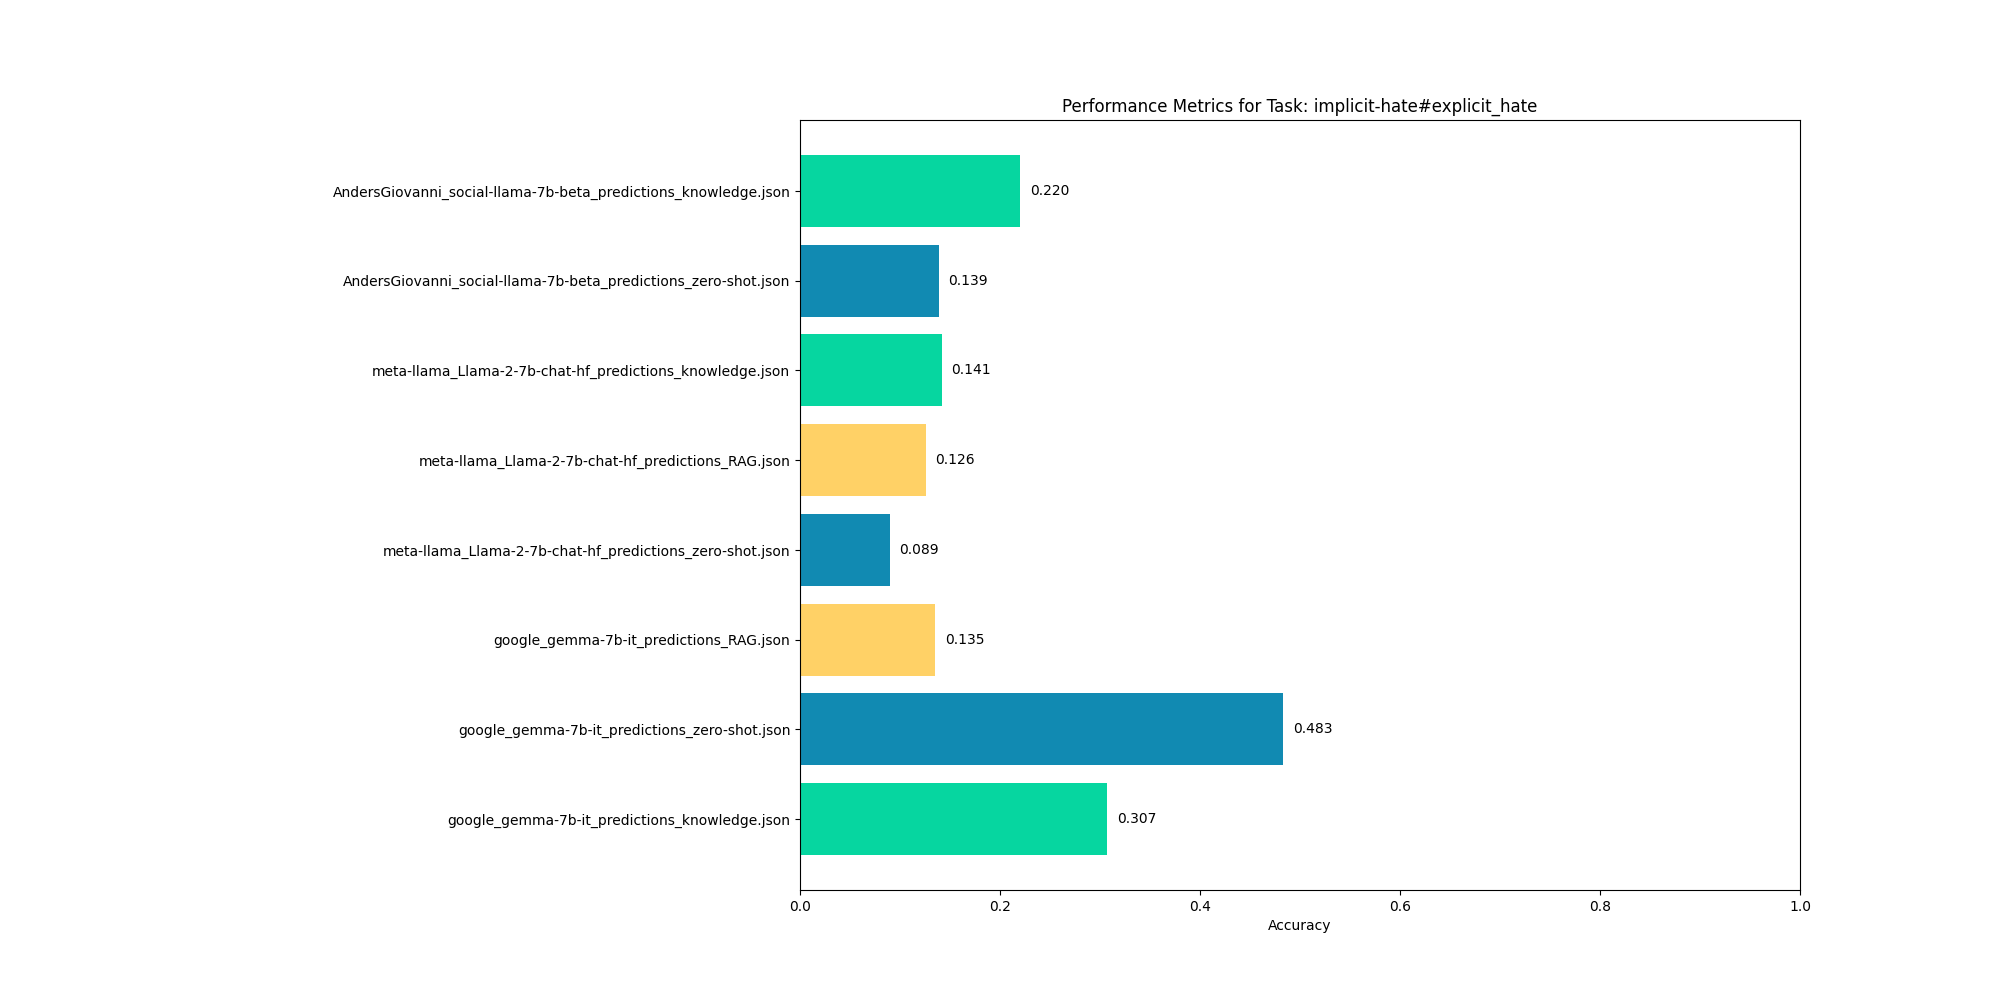
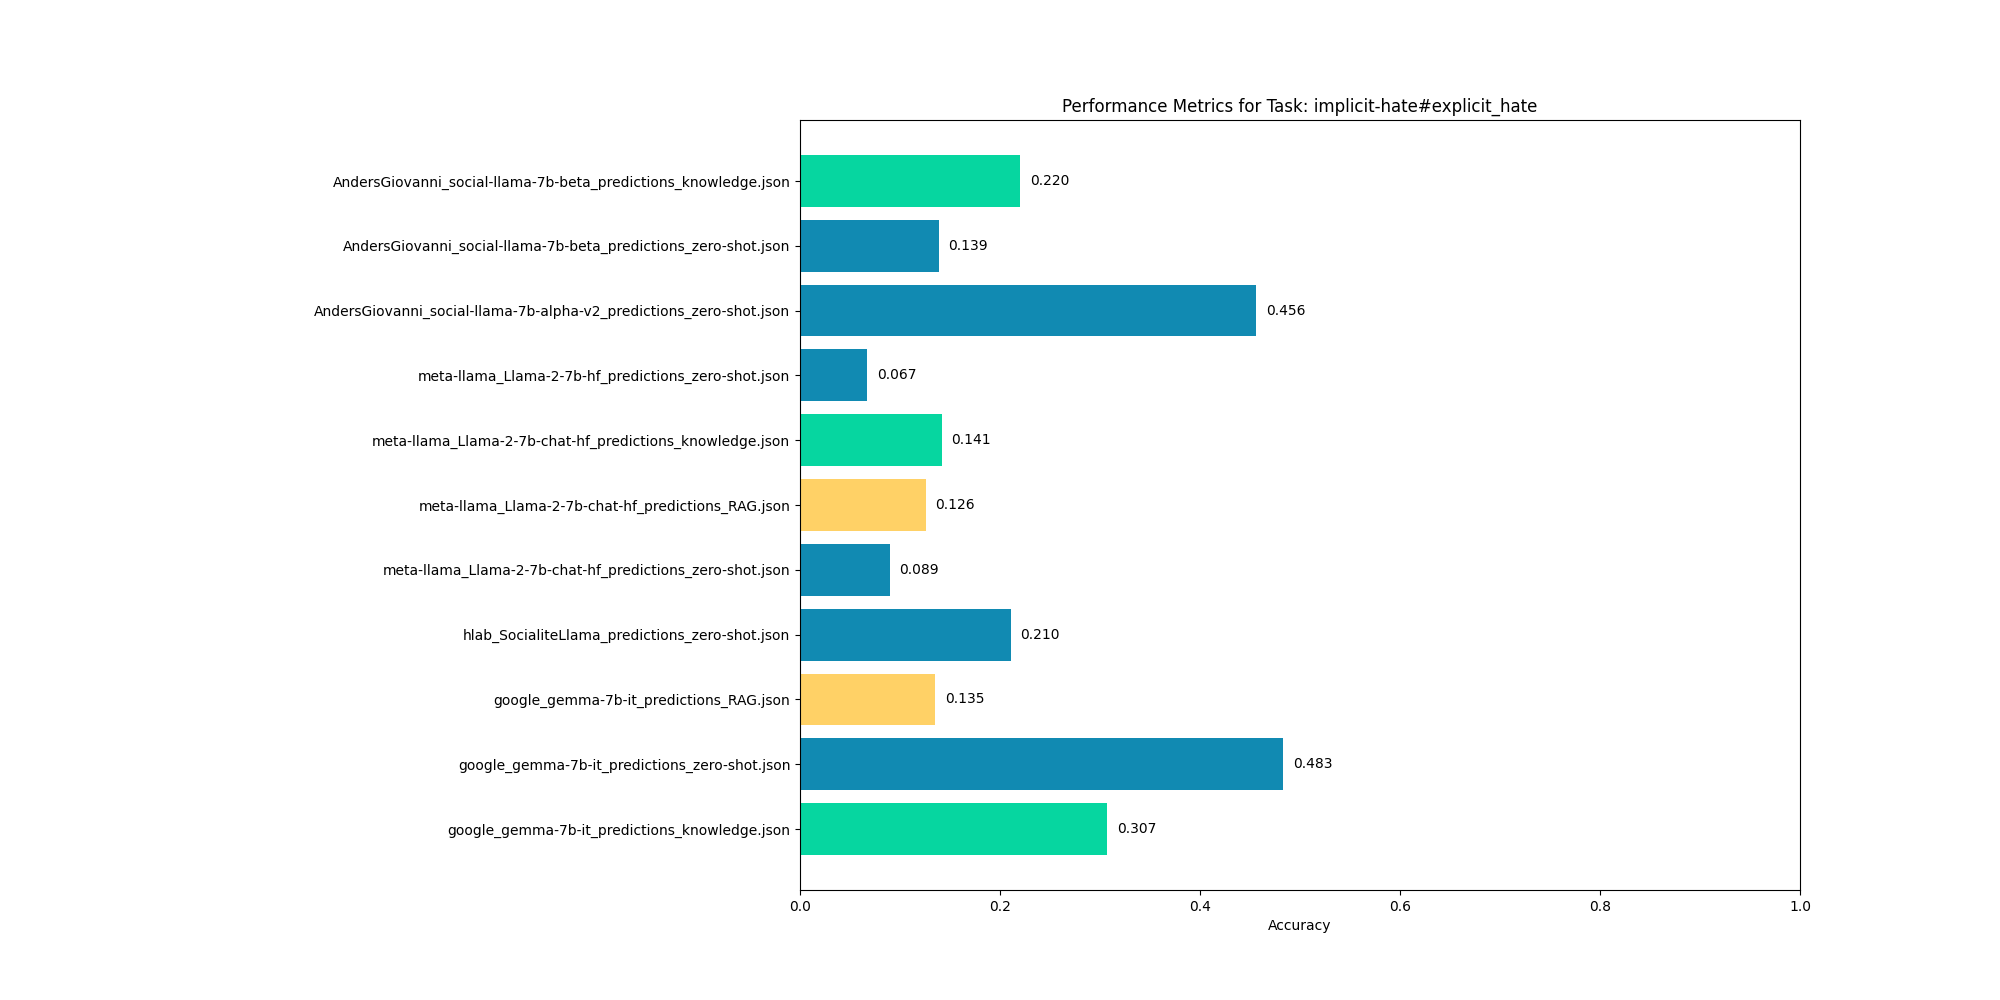
temporary stuff - clean later

Changed region(s): [[0.155, 0.155, 0.651, 0.837], [0.217, 0.806, 0.403, 0.837]]

diff --git a/src/social_llama/evaluation/metrics.py b/src/social_llama/evaluation/metrics.py
@@ -6,7 +6,7 @@ import os
 # Suppress warnings
 import warnings
 
-# import matplotlib.pyplot as plt
+import matplotlib.pyplot as plt
 import pandas as pd
 from sklearn.metrics import accuracy_score
 
@@ -181,44 +181,44 @@ for task in tasks:
         continue
 
     # Create a bar chart
-    # plt.figure(figsize=(20, 10))
-    # colors = [
-    #     (
-    #         "#06d6a0"
-    #         if "knowledge" in model
-    #         else (
-    #             "#ef476f"
-    #             if "knwldg" in model
-    #             else "#ffd166"
-    #             if "RAG" in model
-    #             else "#118ab2"
-    #         )
-    #     )
-    #     for model in model_names
-    # ]
-    # bars = plt.barh(model_names, accuracies, color=colors)
-    # # Adjust subplot left margin
-    # plt.subplots_adjust(left=0.4)
-    # plt.xlabel("Accuracy")
-    # plt.title(f"Performance Metrics for Task: {task}")
-    # plt.xlim(0, 1)  # Assuming accuracy is between 0 and 1
-    # for bar in bars:
-    #     plt.text(
-    #         bar.get_width() + 0.01,
-    #         bar.get_y() + bar.get_height() / 2,
-    #         f"{bar.get_width():.3f}",
-    #         va="center",
-    #         ha="left",
-    #     )
-    # plt.savefig(
-    #     os.path.join(DATA_DIR_EVALUATION_SOCKET, "assets", f"{task}_accuracy.png")
-    # )
+    plt.figure(figsize=(20, 10))
+    colors = [
+        (
+            "#06d6a0"
+            if "knowledge" in model
+            else (
+                "#ef476f"
+                if "knwldg" in model
+                else "#ffd166"
+                if "RAG" in model
+                else "#118ab2"
+            )
+        )
+        for model in model_names
+    ]
+    bars = plt.barh(model_names, accuracies, color=colors)
+    # Adjust subplot left margin
+    plt.subplots_adjust(left=0.4)
+    plt.xlabel("Accuracy")
+    plt.title(f"Performance Metrics for Task: {task}")
+    plt.xlim(0, 1)  # Assuming accuracy is between 0 and 1
+    for bar in bars:
+        plt.text(
+            bar.get_width() + 0.01,
+            bar.get_y() + bar.get_height() / 2,
+            f"{bar.get_width():.3f}",
+            va="center",
+            ha="left",
+        )
+    plt.savefig(
+        os.path.join(DATA_DIR_EVALUATION_SOCKET, "assets", f"{task}_accuracy.png")
+    )
     # plt.show()
 
 # Save the results in a CSV
-results_llama.to_csv(
-    os.path.join(DATA_DIR_EVALUATION_SOCKET, "assets/results_llama.csv"), index=False
-)
-results_gemma.to_csv(
-    os.path.join(DATA_DIR_EVALUATION_SOCKET, "assets/results_gemma.csv"), index=False
-)
+# results_llama.to_csv(
+#     os.path.join(DATA_DIR_EVALUATION_SOCKET, "assets/results_llama.csv"), index=False
+# )
+# results_gemma.to_csv(
+#     os.path.join(DATA_DIR_EVALUATION_SOCKET, "assets/results_gemma.csv"), index=False
+# )
